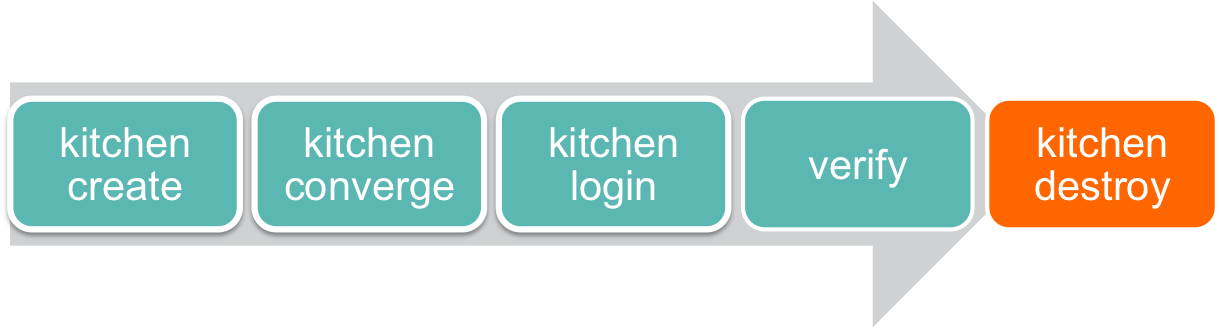
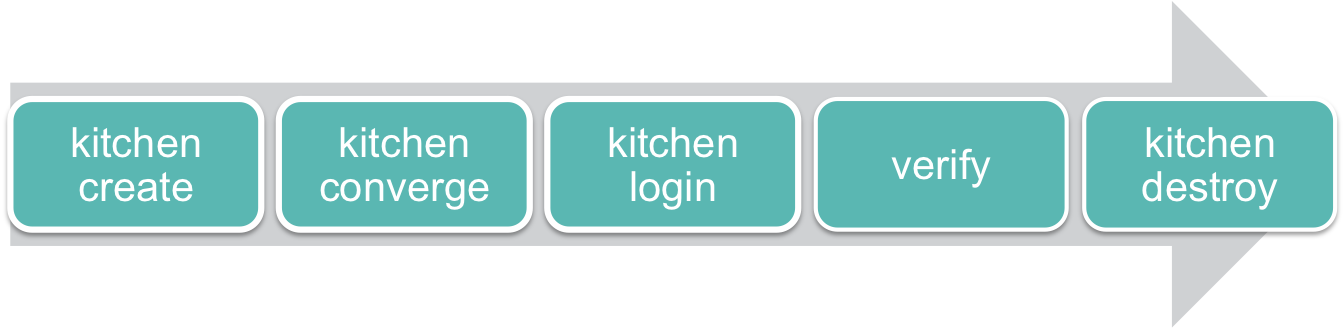
cleanup pass
- fix colors in
- validated content on Windows host, updated content to match
- incorporate feedback from @colincam
also:
- added .feedback style
- tweaked .docs style
- increase icon side in callouts
- fix Out-Path to create the secret key in UTF8 format

diff --git a/source/assets/stylesheets/foundation/_overrides.scss b/source/assets/stylesheets/foundation/_overrides.scss
@@ -40,7 +40,6 @@ li:not(:last-child) {
     margin-bottom: 5px;
 }
 
-// Uses Sass alert() mixin to add 'docs' alert box
 .docs {
   @include alert(
     $bg: $docs-color,
@@ -48,7 +47,24 @@ li:not(:last-child) {
   );
 }
 .docs {
-  color: #fff
+  color: inherit;
+  font-size: 95%;
+  border-style: none;
+  border-left: solid 2px lighten($primary-gray, 25%);
+  line-height: 1.6;
+  box-shadow: 0 0 8px rgba(0,0,0,0.3);
+
+  &.error {
+    border-left: solid 2px darken(red, 25%);
+
+    i {
+      color: darken(red, 25%);
+    }
+  }
+
+  a:link, a:visited a:hover a:active {
+  	color: darken($primary-orange, 10%);
+  }
 }
 
 .comment {
@@ -94,6 +110,33 @@ li:not(:last-child) {
     i {
       color: darken(red, 25%);
     }
+  }
+}
+
+.feedback {
+  @include alert(
+    $bg: $feedback-color,
+    $radius: false
+  );
+}
+.feedback {
+  color: #ffe;
+  font-size: 95%;
+  border-style: none;
+  border-left: solid 2px lighten($primary-gray, 25%);
+  line-height: 1.6;
+  box-shadow: 0 0 8px rgba(0,0,0,0.3);
+
+  &.error {
+    border-left: solid 2px darken(red, 25%);
+
+    i {
+      color: darken(red, 25%);
+    }
+  }
+
+  a:link, a:visited a:hover a:active {
+  	color: #944C44;
   }
 }
 

diff --git a/source/assets/stylesheets/foundation/_variables.scss b/source/assets/stylesheets/foundation/_variables.scss
@@ -39,9 +39,10 @@ $primary-color: $primary-blue;
 $secondary-color: $primary-gray;
 $alert-color: $secondary-red;
 $success-color: $secondary-green;
-$docs-color: darken($primary-blue, 20%);
+$docs-color: lighten($primary-blue, 30%);
 $comment-color: #fff3e4;
 $github-color: lighten($secondary-green,40%);
+$feedback-color: #7AA783;
 $sidebar-color: lighten($secondary-gray,35%);
 $internal-color: lighten(yellow, 30%);
 $error-color: #f5fff5;

diff --git a/lib/markdown.rb b/lib/markdown.rb
@@ -46,20 +46,21 @@ module ZurbFoundation
   end
 
   def alerts
-    content.gsub!(/<p>\[INFO\] (.+)<\/p>/)     { "<div class=\"alert-box\"><i class=\"fa fa-exclamation-triangle\"></i>&nbsp; #{$1}</div>" }
-    content.gsub!(/<p>\[SUCCESS\] (.+)<\/p>/)  { "<div class=\"alert-box success\"><i class=\"fa fa-thumbs-o-up\"></i>&nbsp; #{$1}</div>" }
-    content.gsub!(/<p>\[WARN\] (.+)<\/p>/)     { "<div class=\"alert-box comment error\"><i class=\"fa fa-exclamation-triangle rediconcolor\"></i>&nbsp; #{$1}</div>" }
-    content.gsub!(/<p>\[NOTE\] (.+)<\/p>/)     { "<div class=\"alert-box secondary\"><i class=\"fa fa-info-circle\"></i>&nbsp; #{$1}</div>" }
-    content.gsub!(/<p>\[DOCS\] (.+)<\/p>/)     { "<div class=\"alert-box docs\"><i class=\"fa fa-book\"></i>&nbsp; #{$1}</div>" }
-    content.gsub!(/<p>\[COMMENT\] (.+)<\/p>/)  { "<div class=\"alert-box comment\"><i class=\"fa fa-info-circle blueiconcolor\"></i>&nbsp; #{$1}</div>" }
-    content.gsub!(/<p>\[SIDEBAR\] (.+)<\/p>/)  { "<div class=\"alert-box sidebar\"><i class=\"fa fa-comment blueiconcolor fa-2x\"></i>&nbsp; #{$1}</div>" }
-    content.gsub!(/<p>\[INTERNAL\] (.+)<\/p>/)  { "<div class=\"alert-box internal\"><i class=\"fa fa-exclamation-triangle rediconcolor fa-2x\"></i>&nbsp; #{$1}</div>" }
-    content.gsub!(/<p>\[WINDOWS\] (.+)<\/p>/)  { "<div class=\"alert-box comment\"><i class=\"fa fa-windows blueiconcolor\"></i>&nbsp; #{$1}</div>" }
-    content.gsub!(/<p>\[LINUX\] (.+)<\/p>/)  { "<div class=\"alert-box comment\"><i class=\"fa fa-linux\"></i>&nbsp; #{$1}</div>" }
-    content.gsub!(/<p>\[ERROR\] (.+)<\/p>/)  { "<div class=\"alert-box error\"><i class=\"fa fa-exclamation-triangle rediconcolor fa-2x\"></i>&nbsp; #{$1}</div>" }
+    content.gsub!(/<p>\[INFO\] (.+)<\/p>/)     { "<div class=\"alert-box\"><i class=\"fa fa-2x fa-exclamation-triangle\"></i>&nbsp; #{$1}</div>" }
+    content.gsub!(/<p>\[SUCCESS\] (.+)<\/p>/)  { "<div class=\"alert-box success\"><i class=\"fa fa-2x fa-thumbs-o-up\"></i>&nbsp; #{$1}</div>" }
+    content.gsub!(/<p>\[WARN\] (.+)<\/p>/)     { "<div class=\"alert-box comment error\"><i class=\"fa fa-2x fa-exclamation-triangle rediconcolor\"></i>&nbsp; #{$1}</div>" }
+    content.gsub!(/<p>\[NOTE\] (.+)<\/p>/)     { "<div class=\"alert-box secondary\"><i class=\"fa fa-2x fa-info-circle\"></i>&nbsp; #{$1}</div>" }
+    content.gsub!(/<p>\[DOCS\] (.+)<\/p>/)     { "<div class=\"alert-box docs\"><i class=\"fa fa-2x fa-book\"></i>&nbsp; #{$1}</div>" }
+    content.gsub!(/<p>\[COMMENT\] (.+)<\/p>/)  { "<div class=\"alert-box comment\"><i class=\"fa fa-2x fa-info-circle blueiconcolor\"></i>&nbsp; #{$1}</div>" }
+    content.gsub!(/<p>\[SIDEBAR\] (.+)<\/p>/)  { "<div class=\"alert-box sidebar\"><i class=\"fa fa-2x fa-comment blueiconcolor fa-2x\"></i>&nbsp; #{$1}</div>" }
+    content.gsub!(/<p>\[INTERNAL\] (.+)<\/p>/)  { "<div class=\"alert-box internal\"><i class=\"fa fa-2x fa-exclamation-triangle rediconcolor fa-2x\"></i>&nbsp; #{$1}</div>" }
+    content.gsub!(/<p>\[WINDOWS\] (.+)<\/p>/)  { "<div class=\"alert-box comment\"><i class=\"fa fa-2x fa-windows blueiconcolor\"></i>&nbsp; #{$1}</div>" }
+    content.gsub!(/<p>\[LINUX\] (.+)<\/p>/)  { "<div class=\"alert-box comment\"><i class=\"fa fa-2x fa-linux\"></i>&nbsp; #{$1}</div>" }
+    content.gsub!(/<p>\[ERROR\] (.+)<\/p>/)  { "<div class=\"alert-box error\"><i class=\"fa fa-2x fa-exclamation-triangle rediconcolor fa-2x\"></i>&nbsp; #{$1}</div>" }
     content.gsub!(/<p>\[RUBY\] (.+)<\/p>/)  { "<div class=\"alert-box sidebar\"><img class=\"alert-box-icon\" src=\"http://upload.wikimedia.org/wikipedia/commons/7/73/Ruby_logo.svg\" title=\"By Yukihiro Matsumoto, Ruby Visual Identity Team (http://rubyidentity.org/ (archive)) [CC BY-SA 2.5 (http://creativecommons.org/licenses/by-sa/2.5)], via Wikimedia Commons\"></img>&nbsp; #{$1}</div>" }
-    content.gsub!(/<p>\[TIP\] (.+)<\/p>/)  { "<div class=\"alert-box tip\"><i class=\"fa fa-thumbs-o-up tip-icon\"></i>&nbsp; <b>Tip:</b>&nbsp #{$1}</div>" }
+    content.gsub!(/<p>\[TIP\] (.+)<\/p>/)  { "<div class=\"alert-box tip\"><i class=\"fa fa-2x fa-thumbs-o-up tip-icon\"></i>&nbsp; <b>Tip:</b>&nbsp #{$1}</div>" }
     content.gsub!(/<p>\[GITHUB\] (.+)<\/p>/)  { "<div class=\"alert-box github\"><i class=\"fa fa-2x fa-github\"></i>&nbsp; #{$1}</div>" }
+    content.gsub!(/<p>\[FEEDBACK\] (.+)<\/p>/)  { "<div class=\"alert-box feedback\"><i class=\"fa fa-2x fa-comment-o\"></i>&nbsp; #{$1}</div>" }
 
   end
 

diff --git a/source/local-development/rhel/apply-the-web-application-cookbook-locally/1/_index.md b/source/local-development/rhel/apply-the-web-application-cookbook-locally/1/_index.md
@@ -2,12 +2,86 @@
 
 You can skip this step if you already have the `web_application` cookbook on your workstation.
 
+### Option 1: Download the zip file from GitHub
+
 Download the `web_application` project as a zip file from GitHub and extract it to the <code class="file-path">~/manage-a-web-app-rhel</code> directory on your workstation.
 
 <a class='accent-button radius' href='https://github.com/learn-chef/manage-a-web-app-rhel' target='_blank'>Download the web_application project&nbsp;&nbsp;<i class='fa fa-external-link'></i></a>
 
 ![Download a zip file from GitHub](tutorials/github-zip.png)
 
-[COMMENT] You can extract the zip file to a different directory if you'd like. Just remember to adjust the paths you see in this tutorial as needed.
+### Option 2: Clone the GitHub repo
 
-[GITHUB] If you're a Git user, you can also clone this repo by running:<br><br>`git clone https://github.com/learn-chef/manage-a-web-app-rhel.git`.
+If you're a Git user, you can also clone this repo from GitHub.
+
+```bash
+$ cd ~
+$ git clone https://github.com/learn-chef/manage-a-web-app-rhel.git
+```
+
+[COMMENT] You can extract the zip file or clone the Git repo to a different directory if you'd like. Just remember to adjust the paths you see in this tutorial as needed.
+
+### Encrypt your data bags
+
+You'll also need to generate a new secret key and use it to encrypt the local version of your data bags.
+
+First, run the command that matches your workstation setup to generate your secret key file.
+
+### From a Linux or Mac OS workstation
+
+```bash
+# ~/chef-repo
+$ openssl rand -base64 512 | tr -d '\r\n' > /tmp/encrypted_data_bag_secret
+```
+
+### From a Windows workstation
+
+```ps
+# ~\chef-repo
+$ $key = New-Object byte[](512)
+$ $rng = [System.Security.Cryptography.RNGCryptoServiceProvider]::Create().GetBytes($key)
+$ [Convert]::ToBase64String($key) | Out-File "C:\temp\encrypted_data_bag_secret" -encoding "UTF8"
+$ [array]::Clear($key, 0, $key.Length)
+```
+
+Now, modify <code class="file-path">~/manage-a-web-app-rhel/chef-repo/data\_bags/passwords/sql\_server\_root\_password.json</code> by adding the SQL root password in plain text.
+
+```ruby
+# ~/manage-a-web-app-rhel/chef-repo/data_bags/passwords/sql_server_root_password.json
+{
+  "id": "sql_server_root_password",
+  "password": "learnchef_mysql"
+}
+```
+
+Now modify <code class="file-path">~/manage-a-web-app-rhel/chef-repo/data\_bags/passwords/db\_admin.json</code> by adding the database password.
+
+```ruby
+# ~/manage-a-web-app-rhel/chef-repo/data_bags/passwords/db_admin.json
+{
+  "id": "db_admin",
+  "password": "database_password"
+}
+```
+
+First, encrypt your MySQL password locally.
+
+### From a Linux or Mac OS workstation
+
+```bash
+# ~/manage-a-web-app-rhel/chef-repo
+$ knife data bag from file passwords sql_server_root_password.json --secret-file /tmp/encrypted_data_bag_secret --local-mode
+Updated data_bag_item[passwords::sql_server_root_password]
+$ knife data bag from file passwords db_admin.json --secret-file /tmp/encrypted_data_bag_secret --local-mode
+Updated data_bag_item[passwords::db_admin]
+```
+
+### From a Windows workstation
+
+```ps
+# ~\manage-a-web-app-rhel\chef-repo
+$ knife data bag from file passwords sql_server_root_password.json --secret-file C:\temp\encrypted_data_bag_secret --local-mode
+Updated data_bag_item[passwords::sql_server_root_password]
+$ knife data bag from file passwords db_admin.json --secret-file C:\temp\encrypted_data_bag_secret --local-mode
+Updated data_bag_item[passwords::db_admin]
+```

diff --git a/source/local-development/rhel/index.md b/source/local-development/rhel/index.md
@@ -16,8 +16,6 @@ The basic process you followed was to:
 1. Log on to your node and manually verify that it's configured as you expect.
 1. Repeat the process.
 
-[DIAGRAM WILL GO HERE]
-
 Say you want to quickly experiment with a new feature, or you make a mistake and have to repeat the process? It can take some time to tear down your existing node, provision and bootstrap a new one, upload your cookbooks, and run `chef-client`. How can we speed up this cycle and shorten the development process?
 
 One answer is [Test Kitchen](http://kitchen.ci). Test Kitchen is a tool that runs your infrastructure code in an isolated environment that resembles your production environment. With Test Kitchen, you continue to write your Chef code from your workstation, but instead of uploading your code to the Chef server and applying it to a node, Test Kitchen applies your code to a temporary environment, such as a virtual machine on your workstation or a cloud or container instance. Doing so enables you to iterate faster and correct mistakes earlier in the process. Only after you've written and verified your configuration code do you need to upload your cookbooks to the Chef server, bootstrap your node, and run `chef-client` on your node.
@@ -34,8 +32,8 @@ Recall that the `web_application` cookbook configures a basic web application th
 
 After completing this lesson, you'll:
 
-* know how to use Test Kitchen, along with VirtualBox and Vagrant, to apply your cookbooks locally on temporary instances.
-* be able to assign an IP address in the private address space to your instance.
+* know how to use Test Kitchen to apply your cookbooks locally on temporary instances.
+* be able to set up basic network settings for your instance, such as its IP address.
 * understand how to transfer your data bags and secret key file from your workstation to your instance.
 
-You'll get started by setting up VirtualBox and Vagrant on your workstation.
+You'll get started by setting up ChefDK and the virtualization tools on your workstation.

diff --git a/source/local-development/rhel/get-set-up/4/_index.md b/source/local-development/rhel/get-set-up/4/_index.md
@@ -1,0 +1,13 @@
+## 4. Windows only &ndash; install Git
+
+Only complete this step if you're using Windows as your workstation.
+
+In this tutorial, you'll log in to your Linux instance to verify your work. To do so, you'll need an SSH client. Mac OS and most Linux distributions come with an SSH client. On Windows, you'll need to install one manually.
+
+The easiest way to get set up is to install Git, which includes an SSH client.
+
+<a class='accent-button radius' href='http://git-scm.com/download/' target='_blank'>Install Git&nbsp;&nbsp;<i class='fa fa-external-link'></i></a>
+
+After you install Git, ensure that the path to the Git binaries are included in your system `PATH`, for example <code class="file-path">C:\\Program Files (x86)\\Git\\bin</code>.
+
+[FEEDBACK] We're looking for feedback on this requirement. Is Git part of your existing workflow? Would you rather be able to configure your own SSH client? Should we provide an SSH client in the ChefDK? Share your thoughts in the forum at the bottom of this page or <a href="mailto:learnchef@chef.io?subject=Feedback on Git for Windows workstations">email us</a>.

diff --git a/source/local-development/rhel/get-started-with-test-kitchen/2/_index.md b/source/local-development/rhel/get-started-with-test-kitchen/2/_index.md
@@ -62,3 +62,5 @@ Here's how the file breaks down.
 * **suites** specifies what we want to apply to the virtual environment. You can have more than one suite. We define just one, named `default`. This is where we provide the run-list, which defines which recipes to run and in the order to run them. Our run-list contains one recipe &ndash; our `motd` cookbook's default recipe.
 
 [COMMENT] When Test Kitchen runs, it downloads the base virtual machine image, called a _box_, if the image does not already exist locally. Test Kitchen can [infer the location](https://github.com/test-kitchen/kitchen-vagrant#-default-configuration) for a set number of common configurations. The Test Kitchen [documentation](https://github.com/test-kitchen/kitchen-vagrant#-configuration) explains in detail about how to provide the box name, download URL, and other configuration parameters.
+
+[DOCS] The [Chef documentation](http://docs.chef.io/config_yml_kitchen.html) explains the structure of the <code class="file-path">.kitchen.yml</code> file in greater detail, and also explains more about the available settings.

diff --git a/source/local-development/rhel/get-set-up/2/_index.md b/source/local-development/rhel/get-set-up/2/_index.md
@@ -1,6 +1,6 @@
 ## 2. Install VirtualBox
 
-Next, install VirtualBox. VirtualBox is the software that manages your virtual machine instances.
+Next, install VirtualBox. VirtualBox is software that manages your virtual machine instances.
 
 <a class='accent-button radius' href='https://www.virtualbox.org/wiki/Downloads' target='_blank'>Install VirtualBox&nbsp;&nbsp;<i class='fa fa-external-link'></i></a>
 
@@ -11,3 +11,5 @@ Then run the following command to verify that VirtualBox is installed.
 $ VBoxManage --version
 4.3.26r98988
 ```
+
+[WINDOWS] By default, VirtualBox is installed to <code class="file-path">C:\Program Files\Oracle\VirtualBox</code> on Windows. However, this path is not added to the `PATH` environment variable. Either `cd` to this directory or add it to your `PATH` before you run `VBoxManage`.

diff --git a/source/local-development/rhel/get-set-up/0/_index.md b/source/local-development/rhel/get-set-up/0/_index.md
@@ -1,5 +1,5 @@
 ## Before you begin
 
-Ensure that your workstation supports and is configured to use CPU virtualization. If you're using a virtual machine as your workstation through a program such as VMWare Fusion, ensure that virtualization is enabled on the virtual machine.
+[WARN] Ensure that your workstation supports and is configured to use CPU virtualization. If you're using a virtual machine as your workstation through a program such as VMWare Fusion, ensure that nested virtualization is enabled on the virtual machine.
 
 Also ensure that your workstation meets the [system requirements](https://www.virtualbox.org/wiki/End-user_documentation) requirements for running VirtualBox.

diff --git a/source/local-development/rhel/apply-the-web-application-cookbook-locally/2/_index.md b/source/local-development/rhel/apply-the-web-application-cookbook-locally/2/_index.md
@@ -37,4 +37,6 @@ suites:
           secret_path: '/tmp/kitchen/encrypted_data_bag_secret'
 ```
 
+[WINDOWS] On a Windows workstation, set `encrypted_data_bag_secret_key_path` to <code clas="file-path">C:\temp\encrypted\_data\_bag\_secret</code>.
+
 Test Kitchen appends the <code class="file-path">kitchen</code> subdirectory to the `encrypted_data_bag_secret_key_path` path you specify, making the destination path <code class="file-path">/tmp/kitchen/encrypted\_data\_bag\_secret</code> on the virtual machine. Therefore, we need to override the `node[web_application][passwords][secret_path]` node attribute to point to the new location of the secret file on the virtual machine.

diff --git a/source/local-development/rhel/get-set-up/3/_index.md b/source/local-development/rhel/get-set-up/3/_index.md
@@ -1,6 +1,6 @@
 ## 3. Install Vagrant
 
-Next, install Vagrant. Vagrant helps Test Kitchen communicate with VirtualBox and configures things like available memory and network settings.
+Next, install Vagrant. Vagrant is software that Test Kitchen can use to communicate with VirtualBox and configure aspects of the virtual machine such as available memory, host name, and network settings.
 
 <a class='accent-button radius' href='https://www.vagrantup.com/downloads.html' target='_blank'>Install Vagrant&nbsp;&nbsp;<i class='fa fa-external-link'></i></a>
 

diff --git a/source/local-development/rhel/apply-the-web-application-cookbook-locally/3/_index.md b/source/local-development/rhel/apply-the-web-application-cookbook-locally/3/_index.md
@@ -22,7 +22,7 @@ $ kitchen converge
 [...]
        Recipe: iptables::default
 
-s           - execute /usr/sbin/rebuild-iptables
+            - execute /usr/sbin/rebuild-iptables
 
        Running handlers:
        Running handlers complete
@@ -34,9 +34,19 @@ s           - execute /usr/sbin/rebuild-iptables
 
 Verify that the process completed with no errors.
 
+### From a Linux or Mac OS workstation
+
 ```bash
 # ~/motd
 $ echo $?
+0
+```
+
+### From a Windows workstation
+
+```ps
+# ~/motd
+$ echo $LastExitCode
 0
 ```
 
